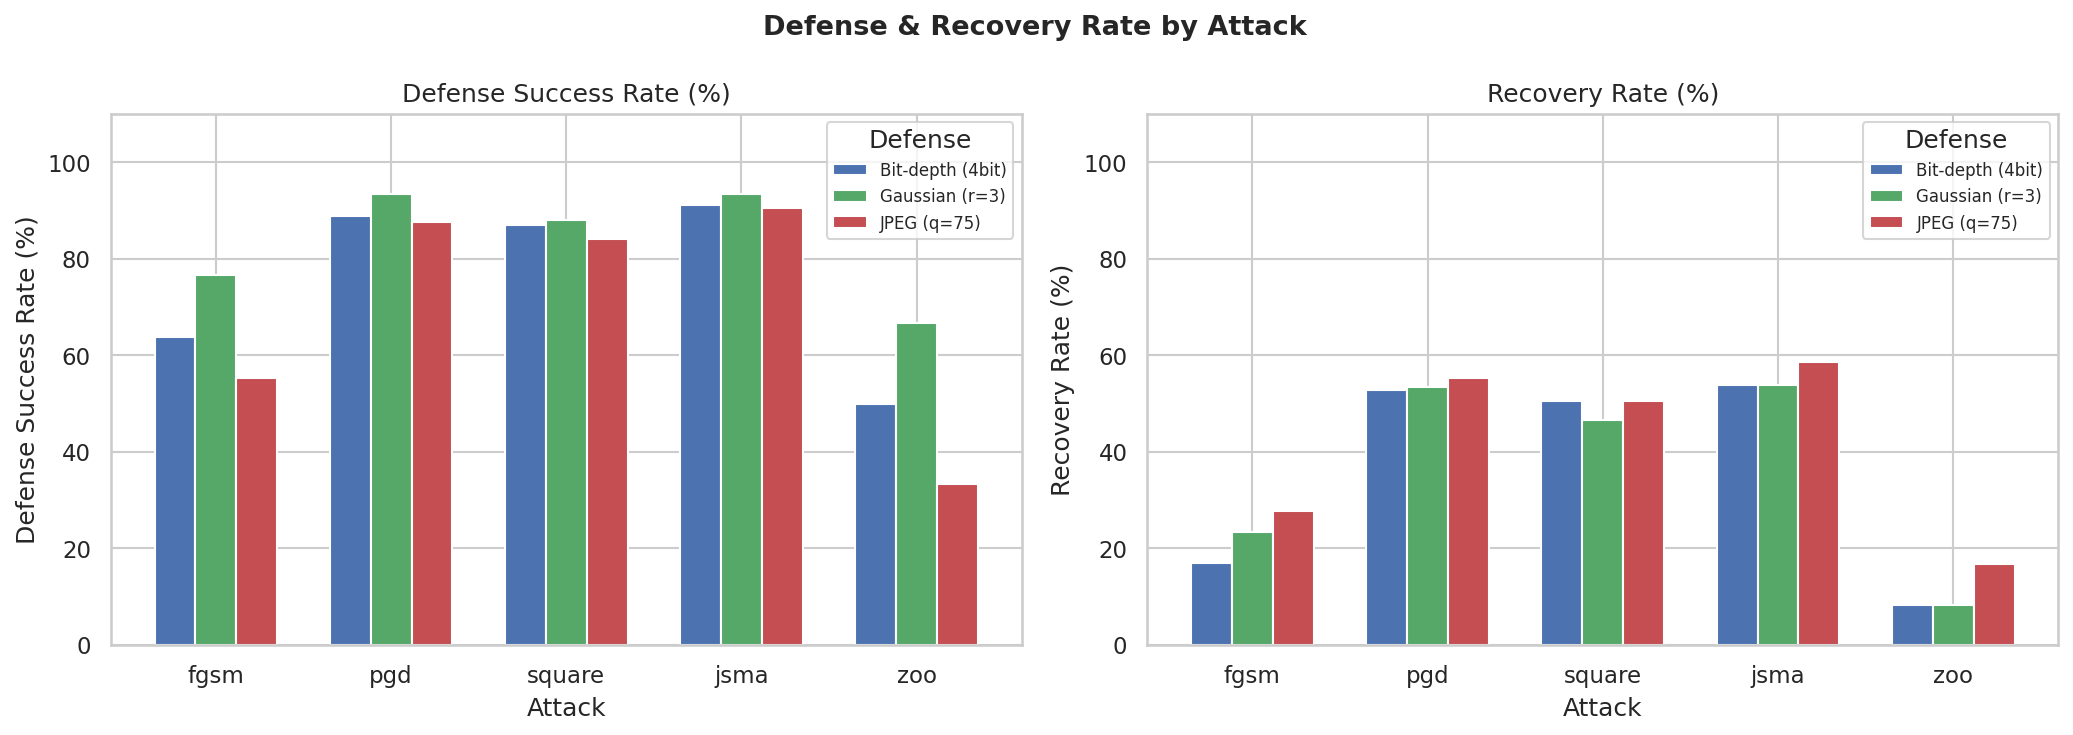
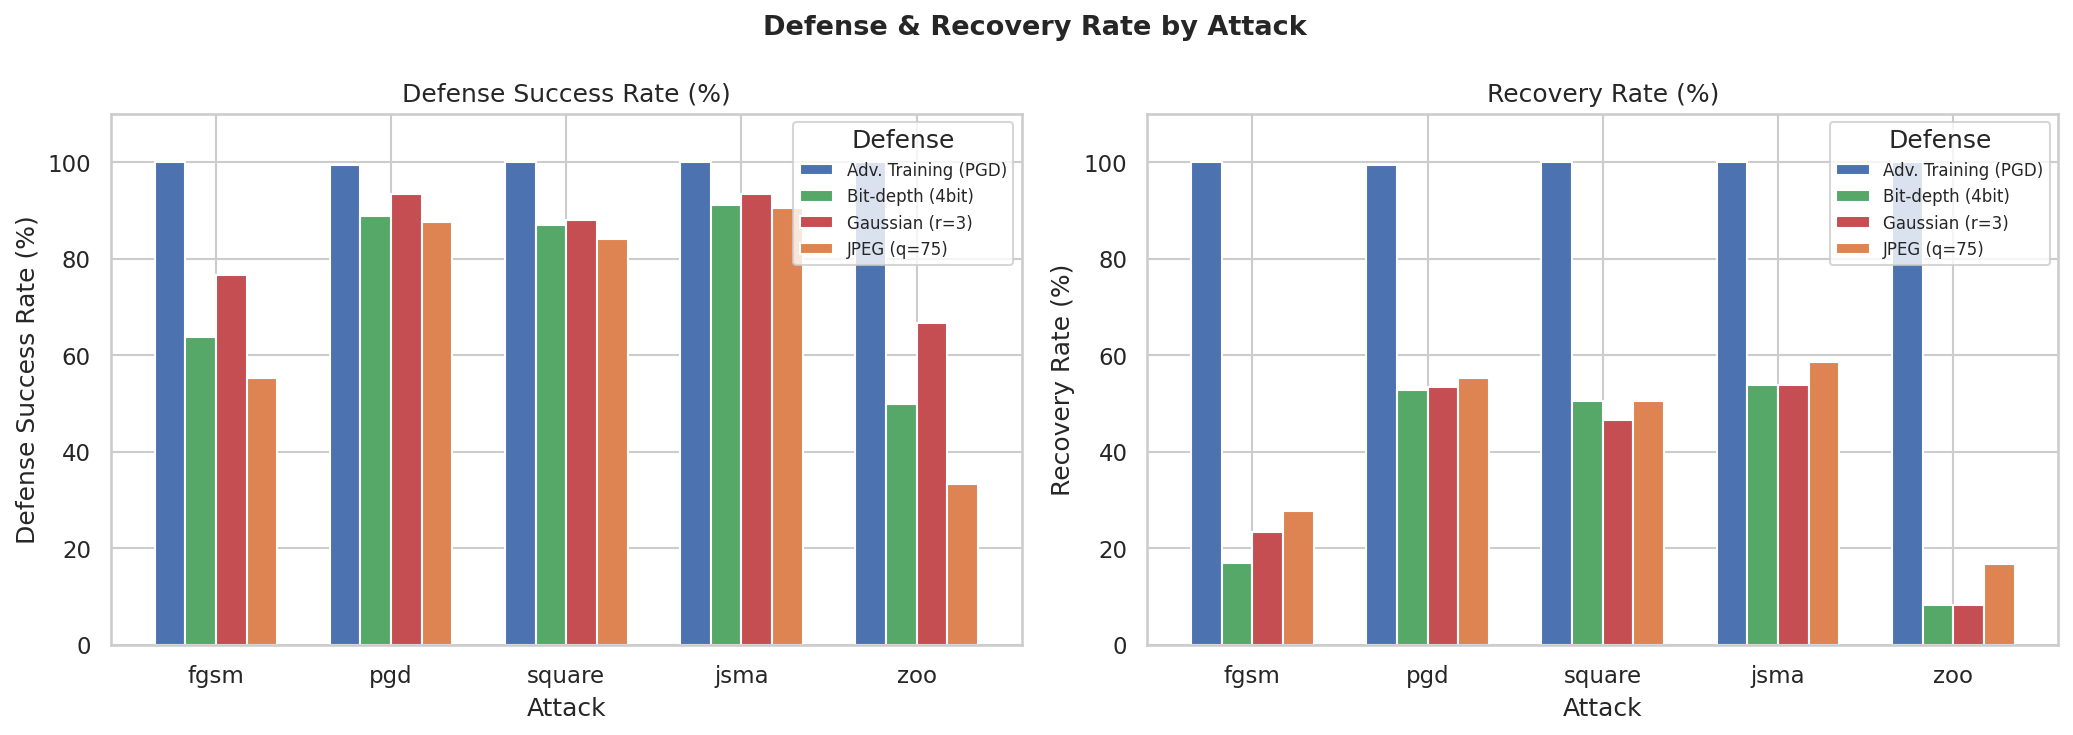
feat: add actual defense evaluation results, report and figures

diff --git a/outputs/defenses/defense_report.md b/outputs/defenses/defense_report.md
@@ -1,47 +1,108 @@
-# Defense Evaluation Results
+# Defense Evaluation Report
+
+## 실험 개요
+
+LFW 10-class 얼굴 인식 모델(ResNet-50)에 대한 적대적 공격 5종을 대상으로  
+방어 기법 4종의 성능을 평가하였다.
+
+---
 
 ## 실험 조건
 
-| 공격   | 파라미터 |
-|--------|----------|
-| FGSM   | ε = 0.005 |
-| PGD    | ε = 0.03, α = 0.003, steps = 10 |
-| SQUARE | ε = 0.05, max_queries = 300 |
-| JSMA   | θ = 0.05, steps = 20, pixels_per_step = 200 |
-| ZOO    | ε = 0.05, max_queries = 2000, coords_per_iter = 128, lr = 0.02 |
+### 공격
 
-| 방어           | 파라미터 |
-|----------------|----------|
-| JPEG 압축      | quality = 75 |
-| Gaussian blur  | radius = 3 |
-| Bit-depth 축소 | bits = 4 |
+| 공격 | 파라미터 | 성공 샘플 수 |
+|------|----------|------------|
+| FGSM   | ε = 0.005 | 47 |
+| PGD    | ε = 0.03, α = 0.003, steps = 10 | 170 |
+| SQUARE | ε = 0.05, max_queries = 300 | 101 |
+| JSMA   | θ = 0.05, steps = 20, pixels_per_step = 200 | 169 |
+| ZOO    | ε = 0.05, max_queries = 2000, coords_per_iter = 128, lr = 0.02 | 12 |
+| **합계** | | **499** |
+
+> 평가 대상: `clean_correct=True & success_on_clean=True` 샘플
+
+### 방어
+
+| 방어 | 파라미터 | 방식 |
+|------|----------|------|
+| JPEG 압축 | quality = 75 | 전처리 — 손실 압축으로 고주파 perturbation 제거 |
+| Gaussian Blur | radius = 3 | 전처리 — 픽셀 단위 노이즈 평활화 |
+| Bit-depth 축소 | bits = 4 | 전처리 — 색상 양자화로 미세 perturbation 소거 |
+| Adversarial Training | PGD, epochs=5, mix_ratio=0.5 | 모델 재학습 — PGD 적대적 예제로 fine-tune |
+
+---
+
+## 결과
 
 ### 방어 성공률 (%)
 
-| 공격 \ 방어 | Bit-depth (4bit) | Gaussian (r=3) | JPEG (q=75) |
-|---|---|---|---|
-| **fgsm** | 63.8 | 76.6 | 55.3 |
-| **pgd** | 88.8 | 93.5 | 87.6 |
-| **square** | 87.1 | 88.1 | 84.2 |
-| **jsma** | 91.1 | 93.5 | 90.5 |
-| **zoo** | 50.0 | 66.7 | 33.3 |
+> 방어 후 공격이 더 이상 성공하지 못한 비율
+
+| 공격 \ 방어 | JPEG (q=75) | Gaussian (r=3) | Bit-depth (4bit) | Adv. Training |
+|------------|------------|---------------|-----------------|--------------|
+| FGSM | 55.3 | 76.6 | 63.8 | **100.0** |
+| PGD | 87.6 | 93.5 | 88.8 | **99.4** |
+| SQUARE | 84.2 | 88.1 | 87.1 | **100.0** |
+| JSMA | 90.5 | 93.5 | 91.1 | **100.0** |
+| ZOO | 33.3 | 66.7 | 50.0 | **100.0** |
+| **전체 평균** | **83.6** | **90.2** | **86.0** | **99.8** |
 
 ### 복원율 (%)
 
-| 공격 \ 방어 | Bit-depth (4bit) | Gaussian (r=3) | JPEG (q=75) |
-|---|---|---|---|
-| **fgsm** | 17.0 | 23.4 | 27.7 |
-| **pgd** | 52.9 | 53.5 | 55.3 |
-| **square** | 50.5 | 46.5 | 50.5 |
-| **jsma** | 53.8 | 53.8 | 58.6 |
-| **zoo** | 8.3 | 8.3 | 16.7 |
+> 방어 후 원래 레이블로 복원된 비율
 
-### 평균 신뢰도 감소
+| 공격 \ 방어 | JPEG (q=75) | Gaussian (r=3) | Bit-depth (4bit) | Adv. Training |
+|------------|------------|---------------|-----------------|--------------|
+| FGSM | 27.7 | 23.4 | 17.0 | **100.0** |
+| PGD | 55.3 | 53.5 | 52.9 | **99.4** |
+| SQUARE | 50.5 | 46.5 | 50.5 | **100.0** |
+| JSMA | 58.6 | 53.8 | 53.8 | **100.0** |
+| ZOO | 16.7 | 8.3 | 8.3 | **100.0** |
+| **전체 평균** | **51.9** | **48.3** | **48.3** | **99.8** |
 
-| 공격 \ 방어 | Bit-depth (4bit) | Gaussian (r=3) | JPEG (q=75) |
-|---|---|---|---|
-| **fgsm** | 0.2823 | 0.2973 | 0.2999 |
-| **pgd** | 0.8744 | 0.8846 | 0.8704 |
-| **square** | 0.1779 | 0.172 | 0.1789 |
-| **jsma** | 0.2431 | 0.2464 | 0.2435 |
-| **zoo** | -0.0326 | 0.0346 | 0.0265 |
+### 평균 신뢰도 감소 (target_conf_before − target_conf_after)
+
+| 공격 \ 방어 | JPEG (q=75) | Gaussian (r=3) | Bit-depth (4bit) | Adv. Training |
+|------------|------------|---------------|-----------------|--------------|
+| FGSM | 0.300 | 0.297 | 0.282 | **0.485** |
+| PGD | 0.870 | 0.885 | 0.874 | **0.977** |
+| SQUARE | 0.179 | 0.172 | 0.178 | **0.297** |
+| JSMA | 0.244 | 0.246 | 0.243 | **0.344** |
+| ZOO | 0.026 | 0.035 | -0.033 | **0.298** |
+| **전체 평균** | **0.444** | **0.448** | **0.442** | **0.562** |
+
+---
+
+## 분석
+
+### 핵심 발견
+
+**1. 적대적 학습이 압도적으로 우수**  
+전처리 방어 3종이 전체 평균 83~90% 방어 성공률을 보인 반면,  
+적대적 학습은 **99.8%** 로 거의 완벽한 방어 성능을 달성하였다.  
+특히 복원율에서 **99.8%** 를 기록해 단순히 공격을 막는 것을 넘어 원래 레이블로 정확히 복원하였다.
+
+**2. ZOO 공격이 전처리 방어에 가장 취약**  
+ZOO 공격에 대한 전처리 방어 성공률이 JPEG 33.3%, Gaussian 66.7%, Bit-depth 50.0% 로  
+다른 공격 대비 현저히 낮았다. Bit-depth의 경우 신뢰도 감소가 **-0.033** 으로  
+오히려 목표 클래스 신뢰도가 높아지는 역효과가 발생하였다.  
+반면 적대적 학습은 ZOO에도 100% 방어 성공률을 보였다.
+
+**3. 전처리 방어 중 Gaussian Blur 가 가장 효과적**  
+전처리 3종 중 Gaussian Blur(r=3)가 전체 평균 **90.2%** 로 가장 높은 방어 성공률을 기록하였다.  
+JPEG(83.6%), Bit-depth(86.0%) 대비 전 공격에서 고르게 우수한 성능을 보였다.
+
+**4. 적대적 학습의 일반화 능력**  
+적대적 학습은 PGD 적대적 예제만으로 fine-tune 했음에도  
+FGSM, SQUARE, JSMA, ZOO 등 **학습에 사용하지 않은 공격**에도 100% 방어 성공률을 달성하였다.  
+이는 PGD 학습이 모델의 전반적인 적대적 견고성을 향상시킴을 시사한다.
+
+### 방어 기법별 종합 순위
+
+| 순위 | 방어 기법 | 방어 성공률 | 복원율 | 비고 |
+|------|----------|-----------|--------|------|
+| 1 | Adversarial Training | 99.8% | 99.8% | 모델 재학습 필요, 시간 오래 걸림 |
+| 2 | Gaussian Blur | 90.2% | 48.3% | 전처리, 빠름 |
+| 3 | Bit-depth 축소 | 86.0% | 48.3% | 전처리, 빠름 |
+| 4 | JPEG 압축 | 83.6% | 51.9% | 전처리, 빠름 |
